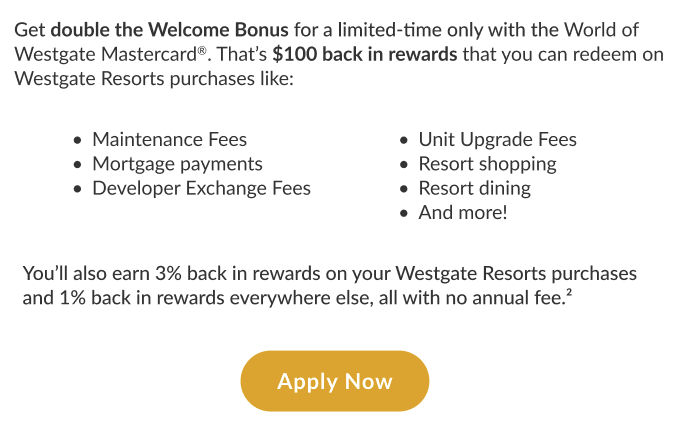
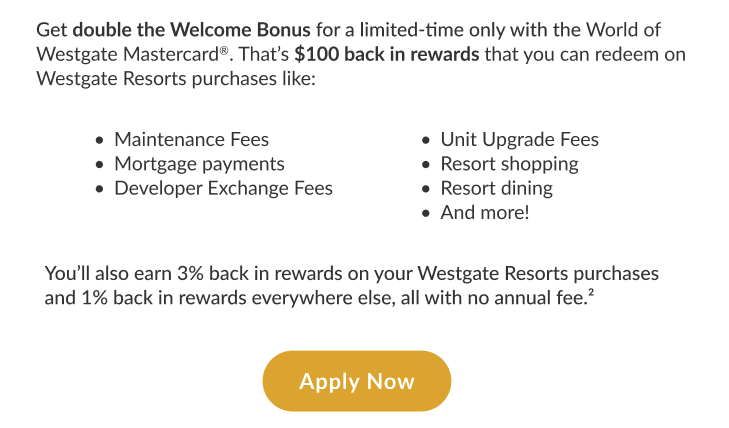
udpates

diff --git a/emails/v48b_NOOM_email2_V1.A_5.31-redo/v48b_NOOM_email2_V1.A_5.31-redo.html b/emails/v48b_NOOM_email2_V1.A_5.31-redo/v48b_NOOM_email2_V1.A_5.31-redo.html
@@ -812,42 +812,6 @@
                                                       </p>
                                                     </td>
                                                   </tr>
-                                                  <tr>
-                                                    <td align="center" class="td-subtitle"
-                                                    style="padding-top: 15px; padding-bottom: 16px; padding-left: 20px; padding-right: 5px;">
-                                                    <p class="subtitle"
-                                                      style="color:#1E191A; margin: 0; font-weight:400; font-size:16px; line-height:24px; text-align: start;  padding-top: 10px;">
-                                                      Get <b>double the Welcome Bonus</b> for a limited-time only with the World of </br>Westgate Mastercard<sup style="line-height: 100%; font-size: 60%">&reg;</sup>. That's <b>$100 back in rewards</b> that you can redeem on Westgate Resorts purchases like:
-                                                    </p>
-                                                  </td>
-                                                  </tr>
-                                                  <tr>
-                                                    <td align="center" class="td-subtitle" style="padding-top: 15px; padding-bottom: 16px; padding-left: 15px; padding-right: 10px;">
-                                                        <div style="display: inline-block; vertical-align: top; margin-right: 20px; text-align: start;">
-                                                            <ul>
-                                                                <li>Maintenance Fees</li>
-                                                                <li>Mortgage payments</li>
-                                                                <li>Developer Exchange Fees</li>
-                                                            </ul>
-                                                        </div>
-                                                        <div style="display: inline-block; vertical-align: top; text-align: start;">
-                                                            <ul>
-                                                                <li>Unit Upgrade Fees</li>
-                                                                <li>Resort shopping</li>
-                                                                <li>Resort dining</li>
-                                                                <li>And more!</li>
-                                                            </ul>
-                                                        </div>
-                                                    </td>
-                                                </tr>
-                                                  <tr>
-                                                    <td align="center" class="td-subtitle"
-                                                    style="padding-top: 15px; padding-bottom: 16px; padding-left: 15px; padding-right: 5px;">
-                                                    <p class="subtitle"
-                                                      style="color:#1E191A; margin: 0; font-weight:400; font-size:16px; line-height:24px; text-align: start;">
-                                                      You’ll also earn 3% back in rewards on your Westgate Resorts purchases </br> and 1% back in rewards everywhere else, all with no annual fee.<sup style="line-height: 100%; font-size: 60%">2</sup></p>
-                                                  </td>
-                                                  </tr>
                                                 </table>
                                               </td>
                                             </tr>
@@ -944,25 +908,6 @@
                           <!--[if mso]><table><tr><td style="padding-right: 0px; padding-left: 0px; padding-top: 0px; padding-bottom: 0px; font-family: Arial, sans-serif"><![endif]-->
                           <div
                             style="color:#ffffff;font-family: 'Lato', 'Helvetica Neue', Helvetica, Arial, sans-serif;line-height:120%;padding-top:0px;padding-right:0px;padding-bottom:0px;padding-left:0px;">
-                            <table  style="min-width: 100%; " class="stylingblock-content-wrapper">
-                                    <tr>
-                                      <td height="24" align="center" valign="top" class=""
-                                      style="color: #000000;font-family: Arial, sans-serif;font-size: 24px; line-height: 150%; word-break: break-word; padding-bottom: 24px;">
-                                      <!--[if mso]> <v:roundrect xmlns:v="urn:schemas-microsoft-com:vml" xmlns:w="urn:schemas-microsoft-com:office:word" href="https://link.imprint.co/e/vE6O1c1SnJb" style="v-text-anchor:middle; height: 60px; width: 430px;" arcsize="50%" fillcolor="#b28517" strokecolor="#b28517" strokeweight="1px" data-btn="1"> <w:anchorlock> </w:anchorlock> <v:textbox inset="0,0,0,0"> <div style="display:none;"> <center class="default-button"><p><span style="color:#ffffff;font-family: Arial, sans-serif;font-size:24px; letter-spacing: 0.12px;"><strong>APPLY NOW</strong></span></p></center> </div> </v:textbox> </v:roundrect> <![endif]-->
-                                      <!--[if !mso]><!--> 
-                                      <a href="https://link.imprint.co/e/vE6O1c1SnJb" rel="noopener" class="btn-apply-now" target="_blank" title="APPLY NOW" data-btn="1" style="font-style: normal; font-weight: normal; line-height: 24px; text-decoration: none; word-break: break-word; border-style: solid; word-wrap: break-word; display: inline-block; -webkit-text-size-adjust: none; mso-hide: all; background-color: #DEA508; border-color: #DEA508; border-radius: 40px; border-width: 0px; color: #ffffff; font-family: arial,helvetica,sans-serif; font-size: 24px; height: 24px; padding-bottom: 15px; padding-left: 10px; padding-right: 10px; padding-top: 15px; width: 145px;">
-                                        <span
-                                        style="font-family: Lato;
-                                        font-size: 18px;
-                                        font-weight: 700;
-                                        line-height: 22px;
-                                        letter-spacing: 0.04em;
-                                        text-align: center;
-                                        ">Apply Now</span>
-                                      </a> <!--<![endif]-->
-                                    </td>
-                                    </tr>
-                            </table>
                           </div>
                           <!--[if mso]></td></tr></table><![endif]-->
                           <!--[if (!mso)&(!IE)]><!-->
@@ -978,31 +923,30 @@
             </div>
           </div>
           <div style="background-color:transparent;">
-
-           <div style="background-color: transparent; margin: 0 auto; min-width: 320px; max-width: 600px; overflow-wrap: break-word; word-wrap: break-word; word-break: break-word;">
-            <table style="width: 600px; border-collapse: collapse;">
-                <tr>
-                    <td style="border: 0; border-style: solid; border-color: #46A0B3; background-color: #46A0B3; border-width: 0 0 0 0;">
-                        <table style="width: 600px;">
-                            <tr>
-                                <td style="padding: 0; text-align: center; Margin: 0 auto;">
-                                    <table class="block-more-rewards-inner" style="margin: 0 auto;">
-                                        <tr>
-                                            <td class="block-rewards-header" style="color: #ffffff; padding-top: 27px; padding-bottom: 27px; width: 100%;">
-                                                <p style="margin: 0; font-family: 'Lato', Arial, 'Helvetica Neue', Helvetica, sans-serif; font-size: 28px; color: #ffffff; font-weight: 900; line-height: 40px; text-transform: uppercase; text-align: center;">
-                                                   ENHANCE YOUR EXPERIENCE </br>WITH UNLIMITED REWARDS
-                                                </p>
-                                            </td>
-                                        </tr>
-                                    </table>
-                                </td>
-                            </tr>
-                        </table>
-                    </td>
-                </tr>
-            </table>
-           </div>
-
+            <div style="background-color: transparent; margin: 0 auto; min-width: 320px; max-width: 600px; overflow-wrap: break-word; word-wrap: break-word; word-break: break-word;">
+              <table style="width: 100%; border-collapse: collapse;">
+                  <tr>
+                      <td style="border: 0; border-style: solid; border-color: #46A0B3; background-color: #46A0B3; border-width: 0 0 0 0;">
+                          <table style="width: 100%;">
+                              <tr>
+                                  <td style="padding: 0; text-align: center; Margin: 0 auto;">
+                                      <table class="block-more-rewards-inner" style="margin: 0 auto;">
+                                          <tr>
+                                              <td class="block-rewards-header" style="color: #ffffff; padding-top: 27px; padding-bottom: 27px; width: 100%;">
+                                                  <p style="margin: 0; font-family: 'Lato', Arial, 'Helvetica Neue', Helvetica, sans-serif; font-size: 28px; color: #ffffff; font-weight: 900; line-height: 40px; text-transform: uppercase; text-align: center;">
+                                                     ENHANCE YOUR EXPERIENCE </br>WITH UNLIMITED REWARDS
+                                                  </p>
+                                              </td>
+                                          </tr>
+                                      </table>
+                                  </td>
+                              </tr>
+                          </table>
+                      </td>
+                  </tr>
+              </table>
+          </div>
+          
            <div style="background-color:transparent;">
             <div class="block-grid"
               style="Margin: 0 auto; min-width: 320px; max-width: 600px; overflow-wrap: break-word; word-wrap: break-word; word-break: break-word; background-color: #ffffff;">
